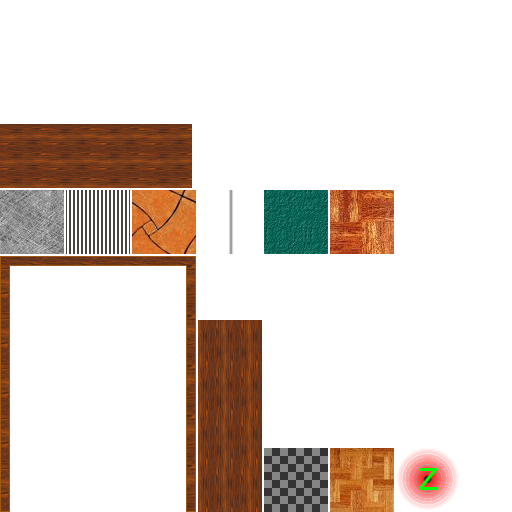
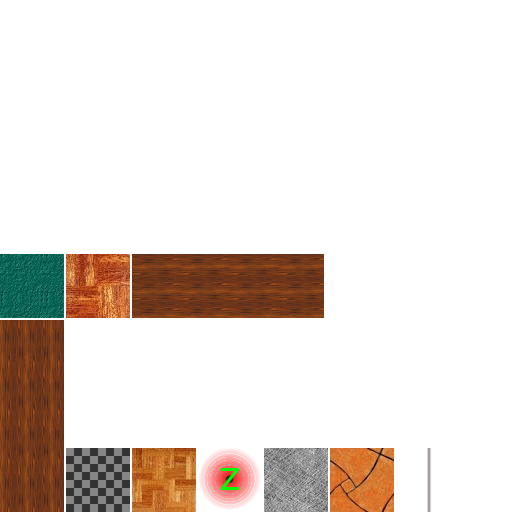
improve editor

diff --git a/gamelib/tiless_editor/plugins/sprite_layer.py b/gamelib/tiless_editor/plugins/sprite_layer.py
@@ -3,7 +3,7 @@ from tiless_editor.picker import PickerBatchNode
 from cocos.sprite import NotifierSprite
 import pyglet
 from pyglet import gl
-from tiless_editor.atlas import TextureAtlas
+from tiless_editor.atlas import TextureAtlas, SavedAtlas
 
 class SpriteLayerFactory(LayerFactory):
     def __init__(self, tiles_path):
@@ -30,11 +30,11 @@ class SpriteLayerFactory(LayerFactory):
         return dict(sprites=sprites)
 
     def dict_to_layer(self, in_dict):
-        def build_sprite(img, texture=None):
+        source_atlas = SavedAtlas('atlas-fixed.png', 'atlas-coords.json')
+        def build_sprite(img):
 
-            rect = img['rect']
-            region = pyglet.image.TextureRegion( rect[0], rect[1], 0, rect[2], rect[3], texture )
-            s = NotifierSprite(region,
+            sp = source_atlas[img['filename']]
+            s = NotifierSprite(sp,
                        img['position'], img['rotation'], img['scale'], img['opacity'])
 #            s = NotifierSprite(str(img['filename']),
 #                       img['position'], img['rotation'], img['scale'], img['opacity'])
@@ -51,19 +51,9 @@ class SpriteLayerFactory(LayerFactory):
 
         layer = self.get_new_layer()
 
-        image = pyglet.image.load( 'atlas.png')
-        atlas = pyglet.image.atlas.TextureAtlas( image.width, image.height )
-        atlas.texture = image.texture
-        gl.glTexParameteri( image.texture.target, gl.GL_TEXTURE_WRAP_S, gl.GL_CLAMP_TO_EDGE )
-        gl.glTexParameteri( image.texture.target, gl.GL_TEXTURE_WRAP_T, gl.GL_CLAMP_TO_EDGE )
-
-
-        newatlas = TextureAtlas(self.tiles_path)
-        newatlas.fix_image()
-
         for item in in_dict["sprites"]:
 #            fix_region( item, newatlas )
-            sprite = build_sprite(item, atlas.texture)
+            sprite = build_sprite(item)
             layer.add(sprite)
 
 

diff --git a/gamelib/walls.py b/gamelib/walls.py
@@ -38,7 +38,6 @@ class WallLayer(cocos.cocosnode.CocosNode):
     def add(self, source_sprite):
         sprite = source_sprite
         wall_sprite = self.get_wall(source_sprite)
-        print wall_sprite.image.tex_coords
         wd = sprite.image.width/2
         hd = sprite.image.height/2
         wh = 50
@@ -59,28 +58,28 @@ class WallLayer(cocos.cocosnode.CocosNode):
         vertex_list = self.wall_batch.add(4, pyglet.gl.GL_QUADS, None,
             ('v3i', l),
             ('c3B', color*4),
-            ('t3f', wall_sprite.image.tex_coords)
+            ('t3f', wall_sprite.tex_coords)
         )
         #bottom wall
         l = (x-wd, y+hd, 0, x+wd, y+hd, 0, x+wd, y+hd, wh, x-wd, y+hd, wh)
         vertex_list = self.wall_batch.add(4, pyglet.gl.GL_QUADS, None,
             ('v3i', l),
             ('c3B', color*4),
-            ('t3f', wall_sprite.image.tex_coords)
+            ('t3f', wall_sprite.tex_coords)
         )
         #left wall
         l = (x-wd, y+hd, 0, x-wd, y-hd, 0, x-wd, y-hd, wh, x-wd, y+hd, wh)
         vertex_list = self.wall_batch.add(4, pyglet.gl.GL_QUADS, None,
             ('v3i', l),
             ('c3B', color*4),
-            ('t3f', wall_sprite.image.tex_coords)
+            ('t3f', wall_sprite.tex_coords)
         )
         #right wall
         l = (x+wd, y+hd, 0, x+wd, y-hd, 0, x+wd, y-hd, wh, x+wd, y+hd, wh)
         vertex_list = self.wall_batch.add(4, pyglet.gl.GL_QUADS, None,
             ('v3i', l),
             ('c3B', color*4),
-            ('t3f', wall_sprite.image.tex_coords)
+            ('t3f', wall_sprite.tex_coords)
         )
         self.texture = sprite.image.texture
 

diff --git a/gamelib/tiless_editor/atlas.py b/gamelib/tiless_editor/atlas.py
@@ -21,6 +21,7 @@ from cocos.sprite import Sprite
 
 # pyglet
 import pyglet
+from pyglet import gl
 from pyglet.image.atlas import Allocator
 
 # python
@@ -151,10 +152,9 @@ class TextureAtlas(object):
         coords = []
         d = {}
         for sprite in self.sprites:
-            print "out RECT", sprite.rect
             d[sprite.path] = sprite.rect
 
-        simplejson.dump(d,fp)
+        simplejson.dump(d,fp, indent=4)
         fp.close()
 
 class SavedAtlas(object):
@@ -162,13 +162,15 @@ class SavedAtlas(object):
         img = pyglet.image.load(  atlas_img )
         self.atlas = pyglet.image.atlas.TextureAtlas( img.width, img.height )
         self.atlas.texture = img.texture
-        self.map = simplejson.load(open(coords_file))
+        gl.glTexParameteri( img.texture.target, gl.GL_TEXTURE_WRAP_S, gl.GL_CLAMP_TO_EDGE )
+        gl.glTexParameteri( img.texture.target, gl.GL_TEXTURE_WRAP_T, gl.GL_CLAMP_TO_EDGE )
+        self.map = dict([
+            (k, pyglet.image.TextureRegion( rect[0], rect[1], 0, rect[2], rect[3], self.atlas.texture ))
+            for k, rect in simplejson.load(open(coords_file)).items()])
 
     def __getitem__(self, key):
-        rect = self.map[key]
-        print "RECT", rect
-        region = pyglet.image.TextureRegion( rect[0], rect[1], 0, rect[2], rect[3], self.atlas.texture )
-        return Sprite(region)
+        region = self.map[key]
+        return region
 
 if __name__ == "__main__":
     director.init()

diff --git a/gamelib/main.py b/gamelib/main.py
@@ -25,6 +25,8 @@ from tiless_editor.plugins.sprite_layer import SpriteLayerFactory
 from tiless_editor.layers.collision import CollisionLayer
 from tiless_editor.tiless_editor import LayersNode
 from tiless_editor.tilesslayer import TilessLayer
+from tiless_editor.atlas import SavedAtlas
+
 from shapes import Bullet, Ray
 from shapes import Wall, COLLISION_GROUP_AGENT, COLLISION_GROUP_ZOMBIE
 from walls import create_wall_layer
@@ -94,9 +96,11 @@ class LightLayer(cocos.cocosnode.CocosNode):
         #pyglet.gl.glBlendEquation(pyglet.gl.GL_FUNC_ADD)
 
 def make_sprites_layer(layer_data, atlas):
+    saved_atlas = SavedAtlas('data/atlas-fixed.png', 'data/atlas-coords.json')
+
     def build_sprite(img):
         rect = img['rect']
-        region = pyglet.image.TextureRegion( rect[0], rect[1], 0, rect[2], rect[3], atlas.texture )
+        region = saved_atlas[img['filename']]
         s = NotifierSprite(region,
                    img['position'], img['rotation'], img['scale'], img['opacity'])
         s.label = img['label'] if "label" in img else None

diff --git a/gamelib/tiless_editor/tiless_editor.py b/gamelib/tiless_editor/tiless_editor.py
@@ -382,7 +382,7 @@ class TilessEditor(Layer):
             layers.append(dict(data=data, z=z, layer_type=layer_type,
                                label=layer.label))
         result = dict(tilesdir=self.tilesdir, layers=layers)
-        return simplejson.dumps(result)
+        return simplejson.dumps(result, indent=4)
 
 
     def read_json(self):
